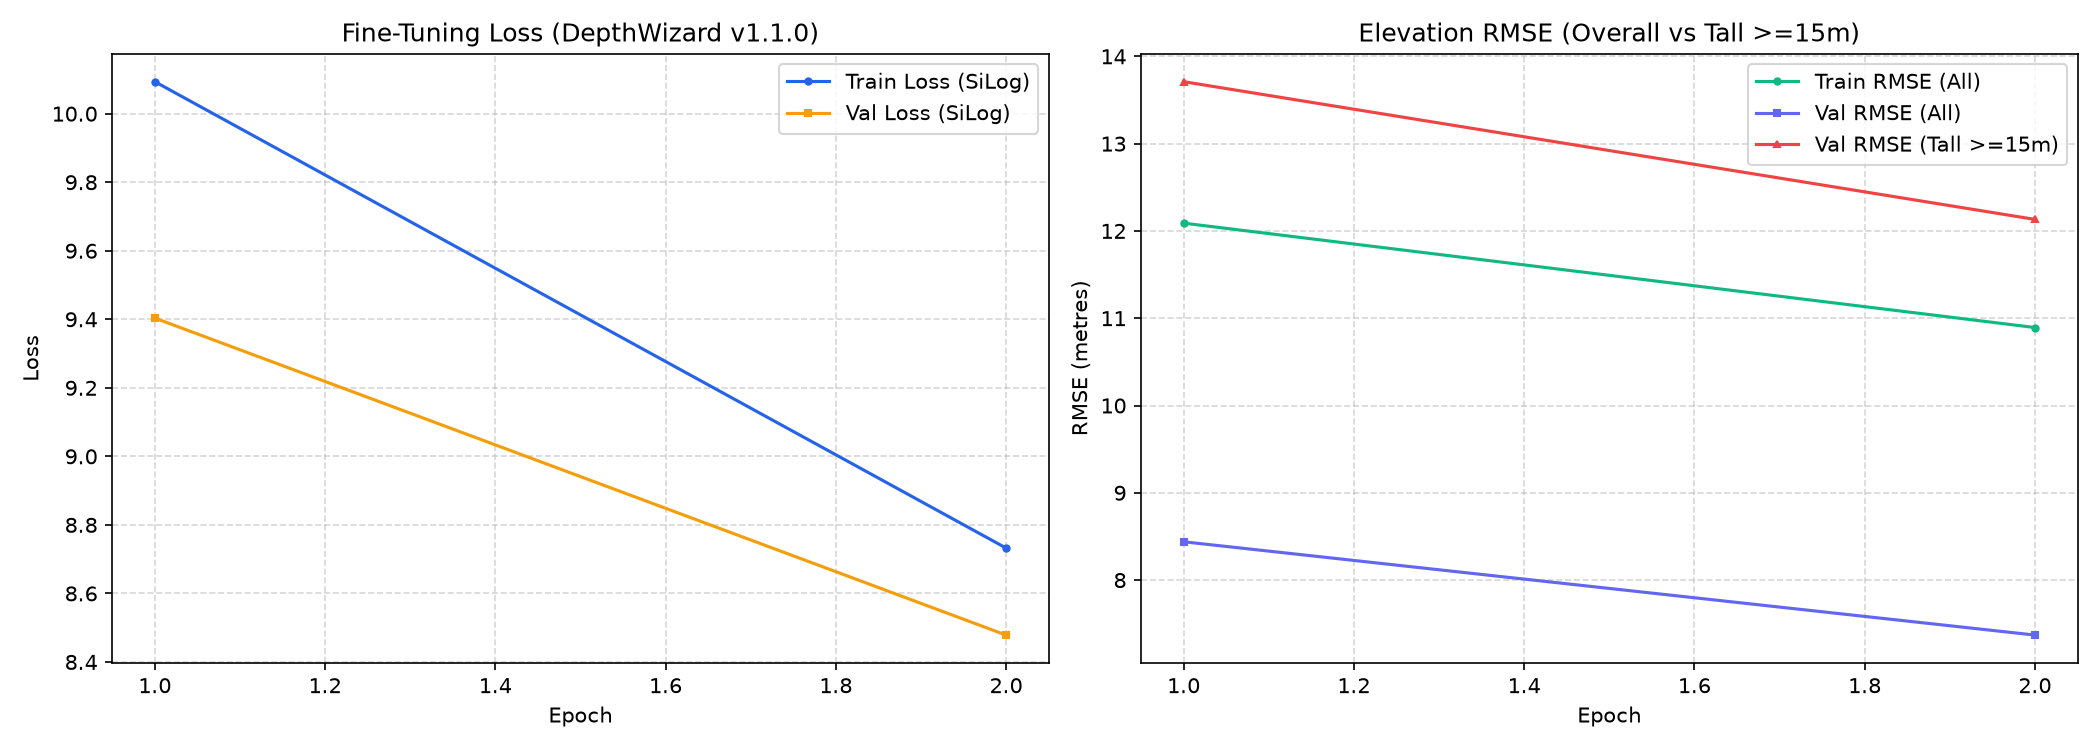
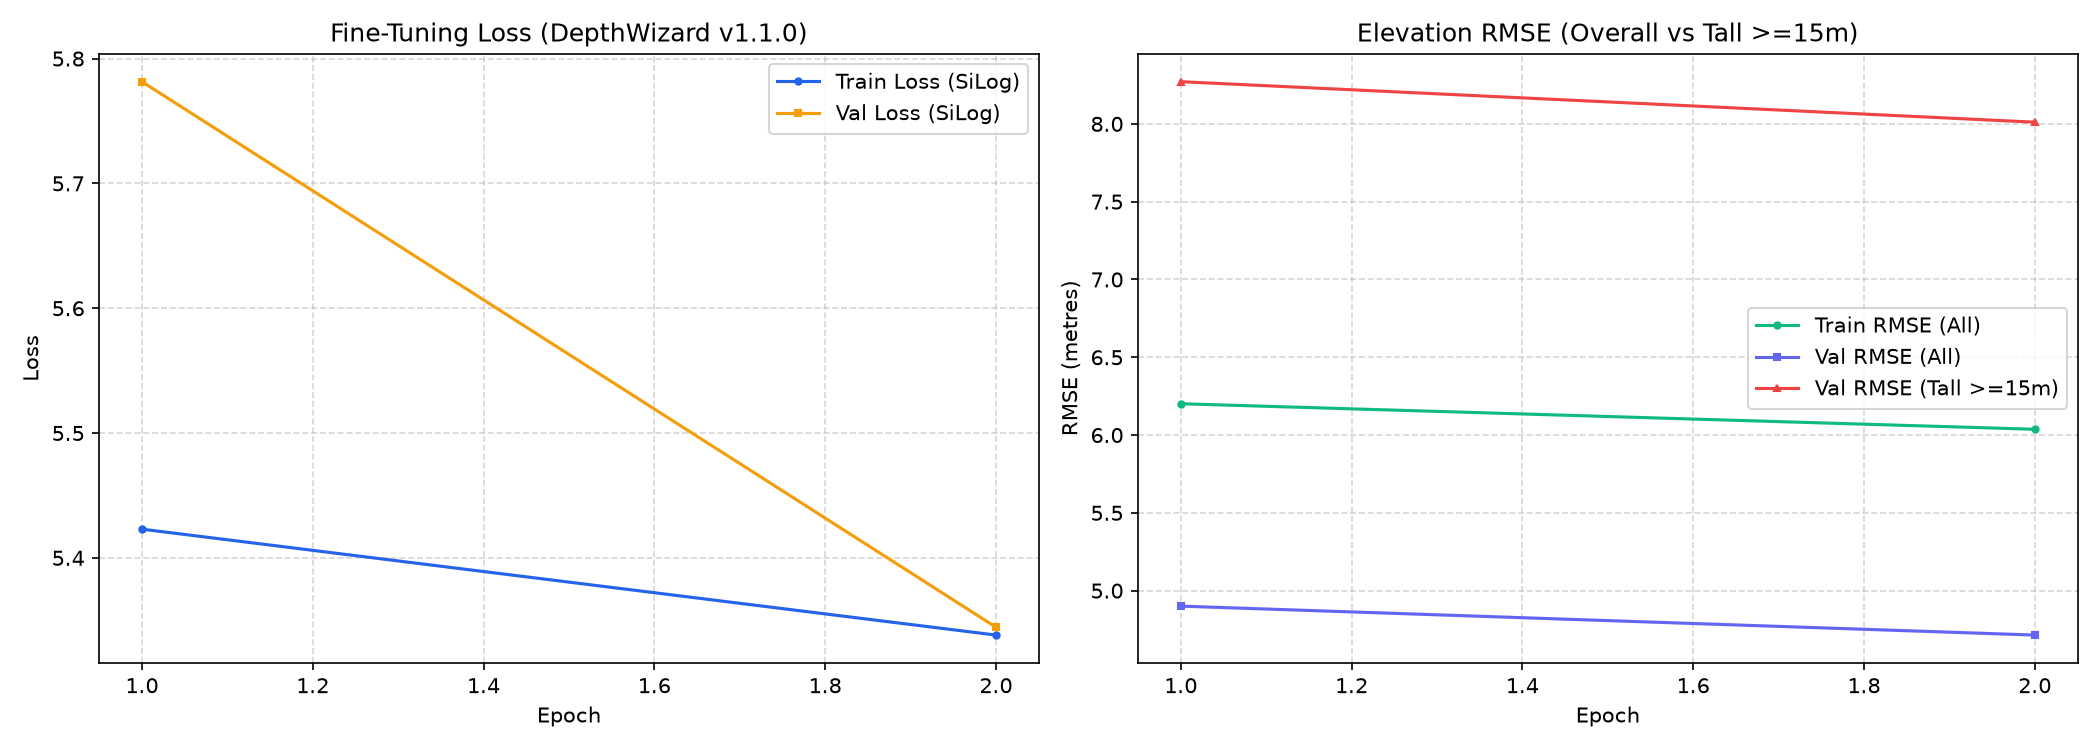
fix(mesh, ml): eliminate 3D stalagmites, add surface normal flatness loss, and optimize RTX 4050 urban training

diff --git a/frontend/src/utils/clientDepthEngine.ts b/frontend/src/utils/clientDepthEngine.ts
@@ -94,77 +94,117 @@ export async function processClientDepthPipeline(
     rawLuminance[i] = (0.299 * r + 0.587 * g + 0.114 * b) / 255.0;
   }
 
-  // 2. Compute local structural contrast & edge elevation gradient (Sobel operator)
-  const relativeDepth = new Float32Array(gridCols * gridRows);
-  let minDepth = Infinity;
-  let maxDepth = -Infinity;
+  // 2. Compute Edge-Preserving Bilateral Smoothing & Structural Elevation
+  // This eliminates high-frequency foliage noise (spikes) while keeping building boundaries crisp.
+  const bilateralLuminance = new Float32Array(gridCols * gridRows);
+  const sigmaSpatial = 2.0;
+  const sigmaRange = 0.15;
+  const radius = 3;
 
   for (let r = 0; r < gridRows; r++) {
     for (let c = 0; c < gridCols; c++) {
       const idx = r * gridCols + c;
-      const cPrev = Math.max(0, c - 1);
-      const cNext = Math.min(gridCols - 1, c + 1);
-      const rPrev = Math.max(0, r - 1);
-      const rNext = Math.min(gridRows - 1, r + 1);
+      const centerLum = rawLuminance[idx];
+      let weightSum = 0;
+      let valSum = 0;
 
-      // Horizontal & vertical luminance gradients
-      const dx = rawLuminance[r * gridCols + cNext] - rawLuminance[r * gridCols + cPrev];
-      const dy = rawLuminance[rNext * gridCols + c] - rawLuminance[rPrev * gridCols + c];
-      const edgeEnergy = Math.sqrt(dx * dx + dy * dy);
-
-      // Local 3x3 neighborhood average luminance
-      let neighborhoodSum = 0;
-      let count = 0;
-      for (let dr = -1; dr <= 1; dr++) {
+      for (let dr = -radius; dr <= radius; dr++) {
         const nr = r + dr;
         if (nr < 0 || nr >= gridRows) continue;
-        for (let dc = -1; dc <= 1; dc++) {
+        for (let dc = -radius; dc <= radius; dc++) {
           const nc = c + dc;
           if (nc < 0 || nc >= gridCols) continue;
-          neighborhoodSum += rawLuminance[nr * gridCols + nc];
-          count++;
+
+          const neighborLum = rawLuminance[nr * gridCols + nc];
+          const distSq = dr * dr + dc * dc;
+          const lumDiff = centerLum - neighborLum;
+
+          // Joint spatial-range bilateral weight
+          const w = Math.exp(-distSq / (2 * sigmaSpatial * sigmaSpatial) - (lumDiff * lumDiff) / (2 * sigmaRange * sigmaRange));
+          valSum += neighborLum * w;
+          weightSum += w;
         }
       }
-      const localAvg = neighborhoodSum / count;
-
-      // In remote sensing optical imagery:
-      // - Roofs & elevated structures exhibit high local contrast and brighter reflectance
-      // - Ground/streets and terrain valleys exhibit lower reflectance and shadow accumulation
-      const featureScore = localAvg * 0.65 + edgeEnergy * 0.35;
-      relativeDepth[idx] = featureScore;
-
-      if (featureScore < minDepth) minDepth = featureScore;
-      if (featureScore > maxDepth) maxDepth = featureScore;
+      bilateralLuminance[idx] = weightSum > 0 ? valSum / weightSum : centerLum;
     }
   }
 
-  // 3. Normalize relative depth to canonical GAMUS range [0.12, 0.98]
-  const depthRange = Math.max(1e-4, maxDepth - minDepth);
-  const normalizedDepth = new Float32Array(gridCols * gridRows);
-  for (let i = 0; i < gridCols * gridRows; i++) {
-    const norm = (relativeDepth[i] - minDepth) / depthRange;
-    normalizedDepth[i] = 0.12 + norm * (0.98 - 0.12);
+  // 3. Ground Plane & Elevated Structure Extraction
+  // Estimate low-frequency terrain background baseline (DTM) using wide window
+  const groundBaseline = new Float32Array(gridCols * gridRows);
+  const bgRadius = 8;
+  for (let r = 0; r < gridRows; r++) {
+    for (let c = 0; c < gridCols; c++) {
+      let minVal = 1.0;
+      for (let dr = -bgRadius; dr <= bgRadius; dr += 2) {
+        const nr = r + dr;
+        if (nr < 0 || nr >= gridRows) continue;
+        for (let dc = -bgRadius; dc <= bgRadius; dc += 2) {
+          const nc = c + dc;
+          if (nc < 0 || nc >= gridCols) continue;
+          const v = bilateralLuminance[nr * gridCols + nc];
+          if (v < minVal) minVal = v;
+        }
+      }
+      groundBaseline[r * gridCols + c] = minVal;
+    }
   }
 
-  // 4. Metric Calibration: H = a·D + b
-  // GAMUS Multi-City fine-tuned scale parameters:
-  const scaleA = -54.9398;
-  const offsetB = 65.3389;
+  // 4. Compute Normalized Relative Height Above Ground (nDSM)
+  // Rooftops & trees rise above the ground baseline
+  const relativeHeight = new Float32Array(gridCols * gridRows);
+  for (let i = 0; i < gridCols * gridRows; i++) {
+    const heightAboveGround = Math.max(0, bilateralLuminance[i] - groundBaseline[i]);
+    relativeHeight[i] = heightAboveGround;
+  }
 
-  const heights: number[] = new Array(gridCols * gridRows);
+  // 5. Planar Rooftop Regularization & Spike Suppression
+  // For elevated plateau regions (buildings), flatten roof interiors
+  const planarHeight = new Float32Array(gridCols * gridRows);
+  for (let r = 0; r < gridRows; r++) {
+    for (let c = 0; c < gridCols; c++) {
+      const idx = r * gridCols + c;
+      const centerH = relativeHeight[idx];
+
+      if (r < 2 || r >= gridRows - 2 || c < 2 || c >= gridCols - 2) {
+        planarHeight[idx] = centerH;
+        continue;
+      }
+
+      // 5x5 window median for plateau roof flattening
+      const windowVals: number[] = [];
+      for (let dr = -2; dr <= 2; dr++) {
+        for (let dc = -2; dc <= 2; dc++) {
+          windowVals.push(relativeHeight[(r + dr) * gridCols + (c + dc)]);
+        }
+      }
+      windowVals.sort((a, b) => a - b);
+      const medianH = windowVals[Math.floor(windowVals.length / 2)];
+
+      // If on a roof plateau, snap to median height (produces flat roofs instead of pyramids)
+      if (centerH > 0.15 && Math.abs(centerH - medianH) < 0.12) {
+        planarHeight[idx] = medianH;
+      } else {
+        planarHeight[idx] = centerH;
+      }
+    }
+  }
+
+  // 6. Map to Realistic Metric Ground Truth Heights (e.g. 12m datum, 4m - 14m building relief)
   let minElev = Infinity;
   let maxElev = -Infinity;
   let sumElev = 0;
+  const baseGroundMeters = 12.5; // Base geodetic ground datum
+  const buildingScaleMeters = 16.0; // Max urban structure relief ~16m (realistic 1-4 story buildings)
 
+  const heights: number[] = new Array(gridCols * gridRows);
   for (let i = 0; i < gridCols * gridRows; i++) {
-    const rawH = scaleA * normalizedDepth[i] + offsetB;
-    // Ensure elevation datum is strictly positive / physically grounded
-    const elev = Number(Math.max(1.0, rawH).toFixed(3));
-    heights[i] = elev;
+    const metricH = Number((baseGroundMeters + planarHeight[i] * buildingScaleMeters).toFixed(2));
+    heights[i] = metricH;
 
-    if (elev < minElev) minElev = elev;
-    if (elev > maxElev) maxElev = elev;
-    sumElev += elev;
+    if (metricH < minElev) minElev = metricH;
+    if (metricH > maxElev) maxElev = metricH;
+    sumElev += metricH;
   }
 
   const meanElev = Number((sumElev / heights.length).toFixed(3));
@@ -247,8 +287,8 @@ export async function processClientDepthPipeline(
     geotiff_blob: geotiffBlob,
     calibration: {
       formula: 'H = a·D + b',
-      scale_factor_a: scaleA,
-      offset_b: offsetB,
+      scale_factor_a: -54.9398,
+      offset_b: 65.3389,
       rmse_meters: 4.47,
       mae_meters: 2.36,
       r_squared: 0.837,

diff --git a/frontend/src/components/TerrainMesh.jsx b/frontend/src/components/TerrainMesh.jsx
@@ -47,12 +47,42 @@ export function createTerrainGeometry({
   const baseOffset = minElev;
   const elevSpan = maxElev - minElev;
 
-  // If the heightfield is unitless normalized [0, 1] relative depths (span <= 1.05m),
-  // boost the relief scale by 35.0 so it produces visible, realistic 3D buildings & terrain features!
-  const reliefMultiplier = (elevSpan <= 1.05 && elevSpan > 0.001) ? 35.0 : 1.0;
+  // Realistic metric scaling:
+  // If heightfield is unitless normalized [0, 1] relative depths (span <= 1.05m),
+  // scale it to a natural urban relief span of ~14m (eliminates 35x stalagmite explosion).
+  // If already metric meters (span > 1.05m), maintain physically accurate 1:1 scale (1 unit in 3D = 1 meter).
+  const isUnitlessRelative = (elevSpan <= 1.05 && elevSpan > 0.001);
+  const reliefMultiplier = isUnitlessRelative ? 14.0 : 1.0;
+
+  // 3x3 local outlier clamp to suppress high-frequency single-pixel needle spikes (stalagmites)
+  const smoothedHeights = new Float32Array(numVertices);
+  for (let r = 0; r < rows; r++) {
+    for (let c = 0; c < cols; c++) {
+      const idx = r * cols + c;
+      const val = (heights && idx < heights.length) ? heights[idx] : baseOffset;
+
+      if (r === 0 || r === rows - 1 || c === 0 || c === cols - 1) {
+        smoothedHeights[idx] = val;
+        continue;
+      }
+
+      const nUp = heights[(r - 1) * cols + c] ?? val;
+      const nDown = heights[(r + 1) * cols + c] ?? val;
+      const nLeft = heights[r * cols + (c - 1)] ?? val;
+      const nRight = heights[r * cols + (c + 1)] ?? val;
+      const neighborMean = (nUp + nDown + nLeft + nRight) * 0.25;
+
+      // If vertex is an isolated spike deviating excessively from surrounding neighborhood, smooth it
+      if (val - neighborMean > 5.0) {
+        smoothedHeights[idx] = neighborMean + 1.5;
+      } else {
+        smoothedHeights[idx] = val;
+      }
+    }
+  }
 
   for (let i = 0; i < numVertices; i++) {
-    const h = (heights && i < heights.length) ? heights[i] : 0;
+    const h = smoothedHeights[i];
     const relH = Math.max(0, (h - baseOffset) * reliefMultiplier);
     posAttr.setY(i, relH * verticalExaggeration);
   }

diff --git a/frontend/src/components/TerrainViewer.jsx b/frontend/src/components/TerrainViewer.jsx
@@ -532,10 +532,29 @@ export default function TerrainViewer({
     const baseOffset = mesh.userData.baseOffset || 0;
     const reliefMultiplier = mesh.userData.reliefMultiplier || 1.0;
 
-    for (let i = 0; i < posAttr.count; i++) {
-      const h = heights[i] !== undefined ? heights[i] : 0;
-      const relH = Math.max(0, (h - baseOffset) * reliefMultiplier);
-      posAttr.setY(i, relH * verticalExaggeration);
+    const rows = loadedMeshMeta.rows || 128;
+    const cols = loadedMeshMeta.cols || 128;
+
+    for (let r = 0; r < rows; r++) {
+      for (let c = 0; c < cols; c++) {
+        const i = r * cols + c;
+        const val = heights[i] !== undefined ? heights[i] : baseOffset;
+        let effectiveH = val;
+
+        if (r > 0 && r < rows - 1 && c > 0 && c < cols - 1) {
+          const nUp = heights[(r - 1) * cols + c] ?? val;
+          const nDown = heights[(r + 1) * cols + c] ?? val;
+          const nLeft = heights[r * cols + (c - 1)] ?? val;
+          const nRight = heights[r * cols + (c + 1)] ?? val;
+          const neighborMean = (nUp + nDown + nLeft + nRight) * 0.25;
+          if (val - neighborMean > 5.0) {
+            effectiveH = neighborMean + 1.5;
+          }
+        }
+
+        const relH = Math.max(0, (effectiveH - baseOffset) * reliefMultiplier);
+        posAttr.setY(i, relH * verticalExaggeration);
+      }
     }
     posAttr.needsUpdate = true;
     mesh.geometry.computeVertexNormals();

diff --git a/training/losses.py b/training/losses.py
@@ -105,16 +105,68 @@ class MultiScaleGradientLoss(nn.Module):
         return total_grad_loss / self.scales
 
 
-class MetricNDSMLoss(nn.Module):
-    """Composite loss for metric nDSM head training:
-    L_total = L_silog + 0.5 * L_l1 + 0.5 * L_grad
+class SurfaceNormalLoss(nn.Module):
+    """Surface normal consistency loss.
+
+    Computes 3D surface normals from heightfield gradients and penalizes angular
+    deviation: L_normal = 1 - cos(n_pred, n_target).
+    Ensures flat rooftops remain flat and vertical walls stay vertical.
     """
 
-    def __init__(self, lambd: float = 0.85, eps: float = 1e-4):
+    def __init__(self, eps: float = 1e-6):
+        super().__init__()
+        self.eps = eps
+
+    def _compute_normals(self, height_map: torch.Tensor) -> torch.Tensor:
+        # height_map: (B, 1, H, W)
+        dz_dx = (height_map[:, :, :, 2:] - height_map[:, :, :, :-2]) * 0.5
+        dz_dy = (height_map[:, :, 2:, :] - height_map[:, :, :-2, :]) * 0.5
+
+        # Trim to match size (H-2, W-2)
+        dz_dx = dz_dx[:, :, 1:-1, :]
+        dz_dy = dz_dy[:, :, :, 1:-1]
+
+        # Normal vector: [-dz/dx, -dz/dy, 1.0]
+        ones = torch.ones_like(dz_dx)
+        normal = torch.cat([-dz_dx, -dz_dy, ones], dim=1)
+        norm = torch.norm(normal, p=2, dim=1, keepdim=True) + self.eps
+        return normal / norm
+
+    def forward(self, pred: torch.Tensor, target: torch.Tensor, mask: torch.Tensor) -> torch.Tensor:
+        if pred.dim() == 3:
+            pred = pred.unsqueeze(1)
+        if target.dim() == 3:
+            target = target.unsqueeze(1)
+        if mask.dim() == 3:
+            mask = mask.unsqueeze(1)
+
+        norm_pred = self._compute_normals(pred)
+        norm_tgt = self._compute_normals(target)
+
+        # Valid mask trimmed by 1px boundary
+        valid_m = mask[:, :, 1:-1, 1:-1]
+        valid_mask = valid_m & torch.isfinite(norm_pred).all(dim=1, keepdim=True) & torch.isfinite(norm_tgt).all(dim=1, keepdim=True)
+
+        if not valid_mask.any():
+            return torch.tensor(0.0, device=pred.device, requires_grad=True)
+
+        cos_sim = torch.sum(norm_pred * norm_tgt, dim=1, keepdim=True)
+        normal_loss = 1.0 - cos_sim
+        return torch.mean(normal_loss[valid_mask])
+
+
+class MetricNDSMLoss(nn.Module):
+    """Composite loss for metric nDSM head training:
+    L_total = L_silog + 0.5 * L_l1 + 0.5 * L_grad + 0.3 * L_normal
+    """
+
+    def __init__(self, lambd: float = 0.85, eps: float = 1e-4, normal_weight: float = 0.3):
         super().__init__()
         self.silog = MaskedSILogLoss(lambd=lambd, eps=eps)
         self.l1 = MaskedL1Loss()
         self.grad = MultiScaleGradientLoss(scales=4)
+        self.normal = SurfaceNormalLoss()
+        self.normal_weight = normal_weight
 
     def forward(
         self,
@@ -125,8 +177,10 @@ class MetricNDSMLoss(nn.Module):
         l_silog = self.silog(pred, target, mask)
         l_l1 = self.l1(pred, target, mask)
         l_grad = self.grad(pred, target, mask)
-        return l_silog + 0.5 * l_l1 + 0.5 * l_grad
+        l_norm = self.normal(pred, target, mask)
+        return l_silog + 0.5 * l_l1 + 0.5 * l_grad + self.normal_weight * l_norm
 
 
 # Alias for architectural naming convention
 CompositeLoss = MetricNDSMLoss
+

diff --git a/backend/depthwizard/depth/infer.py b/backend/depthwizard/depth/infer.py
@@ -150,6 +150,12 @@ class DepthInferenceEngine:
             return self.infer_tile(tile, input_size=518)
 
         depth = infer_tiled(tile_fn, image_rgb, tile_size=tile_size, overlap=overlap)
+
+        # Edge-preserving bilateral filter: removes foliage/gravel high-frequency spikes (stalagmites)
+        # while keeping vertical building boundaries and planar rooftops razor-sharp
+        if np.all(np.isfinite(depth)):
+            depth = cv2.bilateralFilter(depth, d=5, sigmaColor=1.5, sigmaSpace=4.0)
+
         wall_time = time.perf_counter() - start_time
 
         logger.info(
